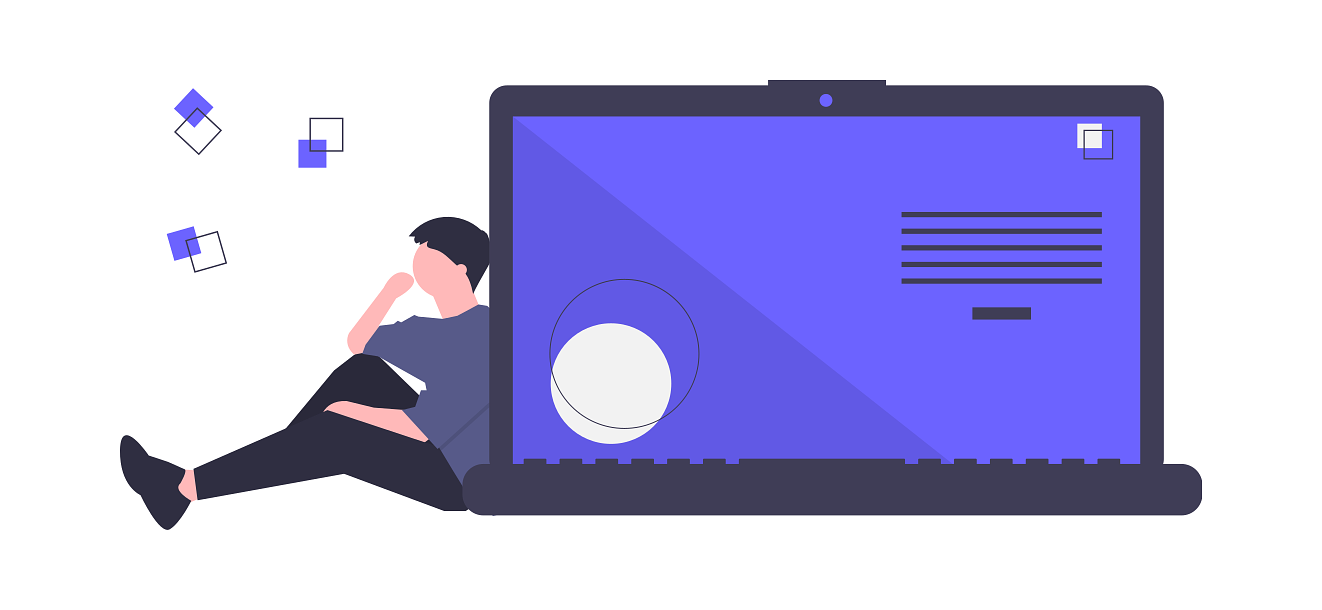
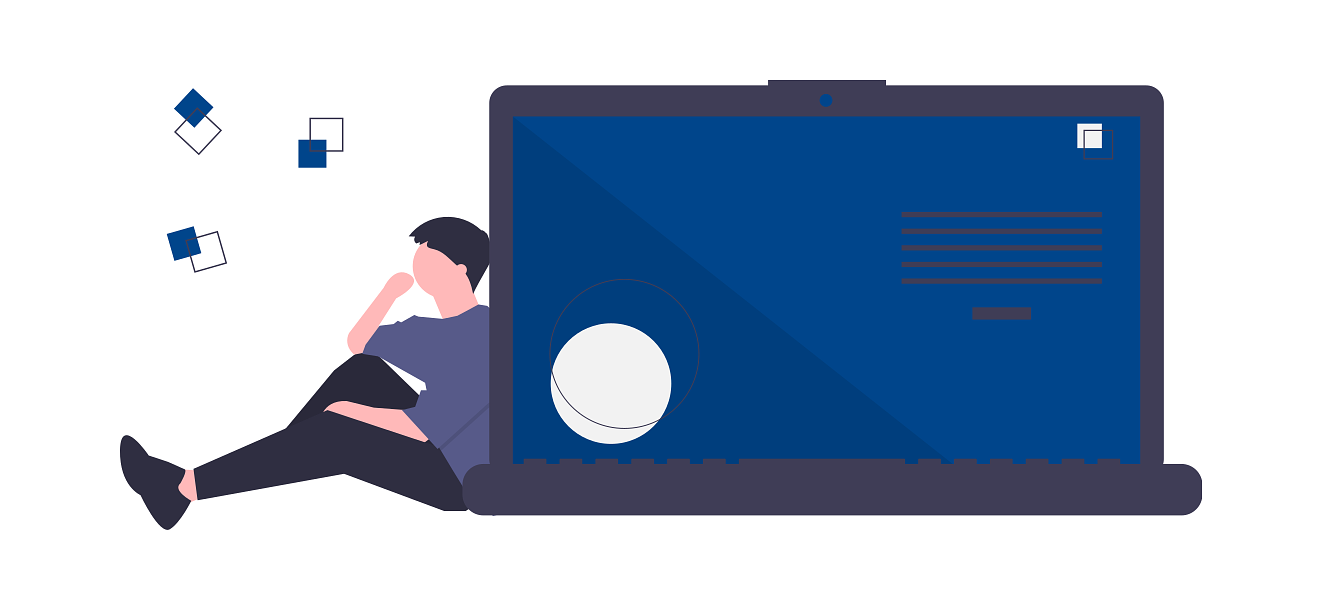
partie1 et partie2 terminés

diff --git a/style.css b/style.css
@@ -27,35 +27,47 @@ body {
 /**** Definition Part ****/
 /********************************/
 
-.partie_1 {
+#partie_1 {
 	width: 100%;
 	height: 100vh;
 	background-image: url('img/undraw_code_thinking_1jeh.png');
 	background-repeat: no-repeat;
 	background-size: 40%;
-	background-position: 50% 80%;
+	background-position: 30% 80%;
     display: flex;
     justify-content: space-between;
     scroll-snap-align: start;
 
 }
 
-.titre_1 {
+.titre_open_source {
     padding: 100px 100px; 
     width : 30%;
-    font-size: 50px;
-    color: #000000;
-    /*height: 100px;*/
+    font-size: 40px;
+    color: #00458B;
+}
+
+.partie_definition {
+    width: 30%;
+    padding: 112px 80px;
+    display: flex;
+    flex-direction: column;
+    
+}
+
+.partie_definition p {
+    margin: 0px 20px;
+    /*text-align: center;*/ 
+    font-size: 25px;
+    text-align: center;
+    color: #00458B;
 }
 
 .definition {
-    width: 30%;
-    padding: 112px 100px;
-    height: 100px;
-    font-size: 20px;
-    /*text-align: center;*/
-
-
+    padding-top: 50px;
+    text-align: center;
+    font-size: 25px;
+    color: #00458B;
 }
 
 
@@ -64,14 +76,47 @@ body {
 /***** Avantages Part *********/
 /******************************/
 
-
-/*.partie_2 {
+#partie_2 {
 	width: 100%;
-	height: 100vh;
-	background-image: url('img/undraw_privacy_protection_nlwy.png');
+	height: 85vh;
+	background-color: #E7E5E2;
     scroll-snap-align: start;
+    border-top: 1px solid black; 
 
 }
-*/
-                        
-                    
+
+.titre_avantages {
+    margin: 60px auto;
+    width: 30%;
+    text-align: center;
+    font-size: 35px;
+    color: #00458B;
+}                        
+
+.avantages_description {
+    width: 100%;
+    display: flex;
+    flex-direction: row;
+    justify-content: space-around;
+    padding-top: 35px;
+}                    
+
+.description {
+    display: flex;
+    flex-direction: column;
+    width: 33%;
+    margin: 0px 50px;
+}
+
+
+.description img {
+    height: 150px;
+
+}
+
+.description p {
+    /*width: 70%;*/
+    text-align: center;
+    font-size: 25px;
+    color: #00458B;
+}

diff --git a/index.html b/index.html
@@ -7,17 +7,42 @@
 </head>
 <body>
 
-<div class="partie_1">
-		<h1 class="titre_1">Qu'est-ce que l'Open Source ?</h1>
-		<p class="definition">L'Open Source fait référence à tous les logiciels dont le code source est ouvert au public permettant de le lire, le modifier et le redistribuer favorisant le libre échange des savoirs informatiques.</p>
+<div id="partie_1">
+		<h1 class="titre_open_source">Qu'est-ce que l'Open Source ?</h1>
 
+        <div class="partie_definition">
+    		<p>L'Open Source correspond à "Code Source Ouvert".</p>
+
+            <p class="definition">Un logiciel est dit Open Source lorsque le code source est accessible, modifiable et intégrable par d’autres développeurs (autre que le propriétaire).</p>
+        </div>
 </div>
 
-<!-- <div class="partie_2">
-        <h1 class="titre_1">Avantages de l'Open Source</h1>
-        <p class="definition">Les logiciels sont analysés par les utilisateurs possédant des connaissances approfondis au code permettant une sécurisation et corrections des failles possibles rapidement répondant aux besoins.</p></p>
+
+
+<div id="partie_2">
+        <h1 class="titre_avantages">Les avantages de l'Open Source</h1>
+
+        <div class="avantages_description">
+
+             <div class="description">
+                <img src="img/icone_noun_coding by Iga from the Noun Project.svg" alt="icone_noun_coding by Iga from the Noun Project">
+                <p>Accès au Code Source</p>
+            </div>
+
+                    
+            <div class="description">
+                <img src="img/icone_noun_lemniscate by Bluetip Design from the Noun Project.svg" alt="icone_noun_coding by Iga from the Noun Project">
+                <p>Pérennité</p>
+            </div>
+
+            <div class="description">
+                <img src="img/icone_noun_Unlock by Atif Arshad from the Noun Project.svg" alt="icone_noun_Unlock by Atif Arshad from the Noun Project">
+                <p>Indépendant des éditeurs propriétaires</p>
+            </div>
+            
+        </div>
 	
-</div>	 -->
+</div>	
 
 </body>
 
